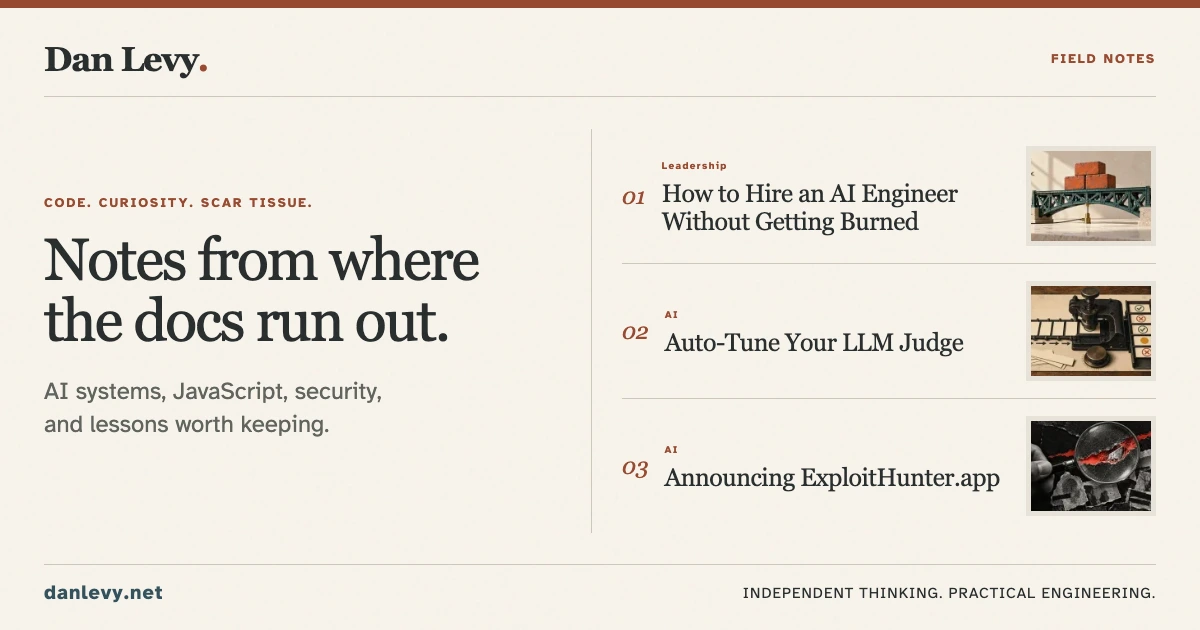
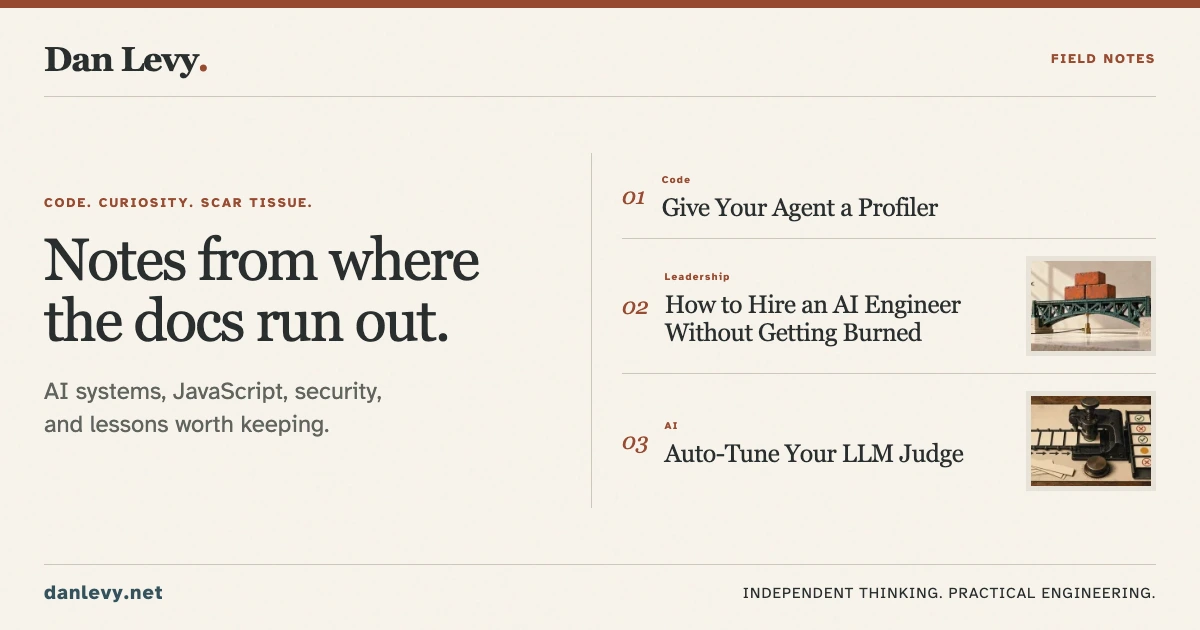
Publish Give Your Agent a Profiler and refresh share previews

Changed region(s): [[0.5242, 0.2413, 0.9867, 0.8143], [0.5242, 0.4222, 0.8017, 0.573], [0.555, 0.2413, 0.8017, 0.3921]]

diff --git a/src/content/posts/2026-10-05--performance-tuning-with-an-agent/editorial-notes.md b/src/content/posts/2026-10-05--performance-tuning-with-an-agent/editorial-notes.md
@@ -33,3 +33,11 @@ If artwork is produced: wide.webp 1600x900, square.webp 800x800, desktop-social.
 ## Revision, October 7, 2026
 
 Rewritten for coherence. The old opening (a benchmark that jumped to the bottom) argued for better workloads, not profilers, so the title's thesis never landed. New spine: benchmark = scoreboard, profile = map; agents without a map optimize from folklore (`content-visibility`, `will-change`, both rejected), while the real win came from a trace (animated WebPs invalidating tiles; raster 1,859 → 844 ms, from emoji-brain commit 9ab1f62). The export+search workload example was replaced with the actual scroll workload, and the invalid first baseline (unsettled Home/End scroll) is now the "can't be fooled" example. The tool catalog was condensed into one question → tool table plus the CPU-idle → waits pivot. Numbers verified against `docs/performance/selection-scrolling.md` and commit messages; no new measurements were run.
+
+## Flow revision, October 7, 2026
+
+Rewritten for fluid prose and a sharper thesis: an agent with the right instruments and an ungameable goal makes bespoke performance tuning accessible; the bar becomes knowing what to ask for and which tools to connect. Three draft → cold-read critique → revise loops plus a final read. Renderer finding moved into the browser section; each tool section now ends with an instruction for the agent. Claims tightened: `will-change` regression is scoped to SwiftShader runs, `content-visibility` result is p95 not worst-case, and agent-speed claims say "a few sessions".
+
+## Publication, October 7, 2026
+
+Selected for publication over the longer companion draft because the profiler thesis, measured example, and practical instructions form a clearer article. Removed the four private visibility flags and the related link to the still-private companion. Refreshed desktop/mobile previews, the article social card, and the homepage banner. Production build, content validation, and type checking passed; browser rendering checked at desktop and 375px. Historical figures checked against the Emoji Brain experiment documentation and commit 9ab1f62; no new performance measurements were run.
